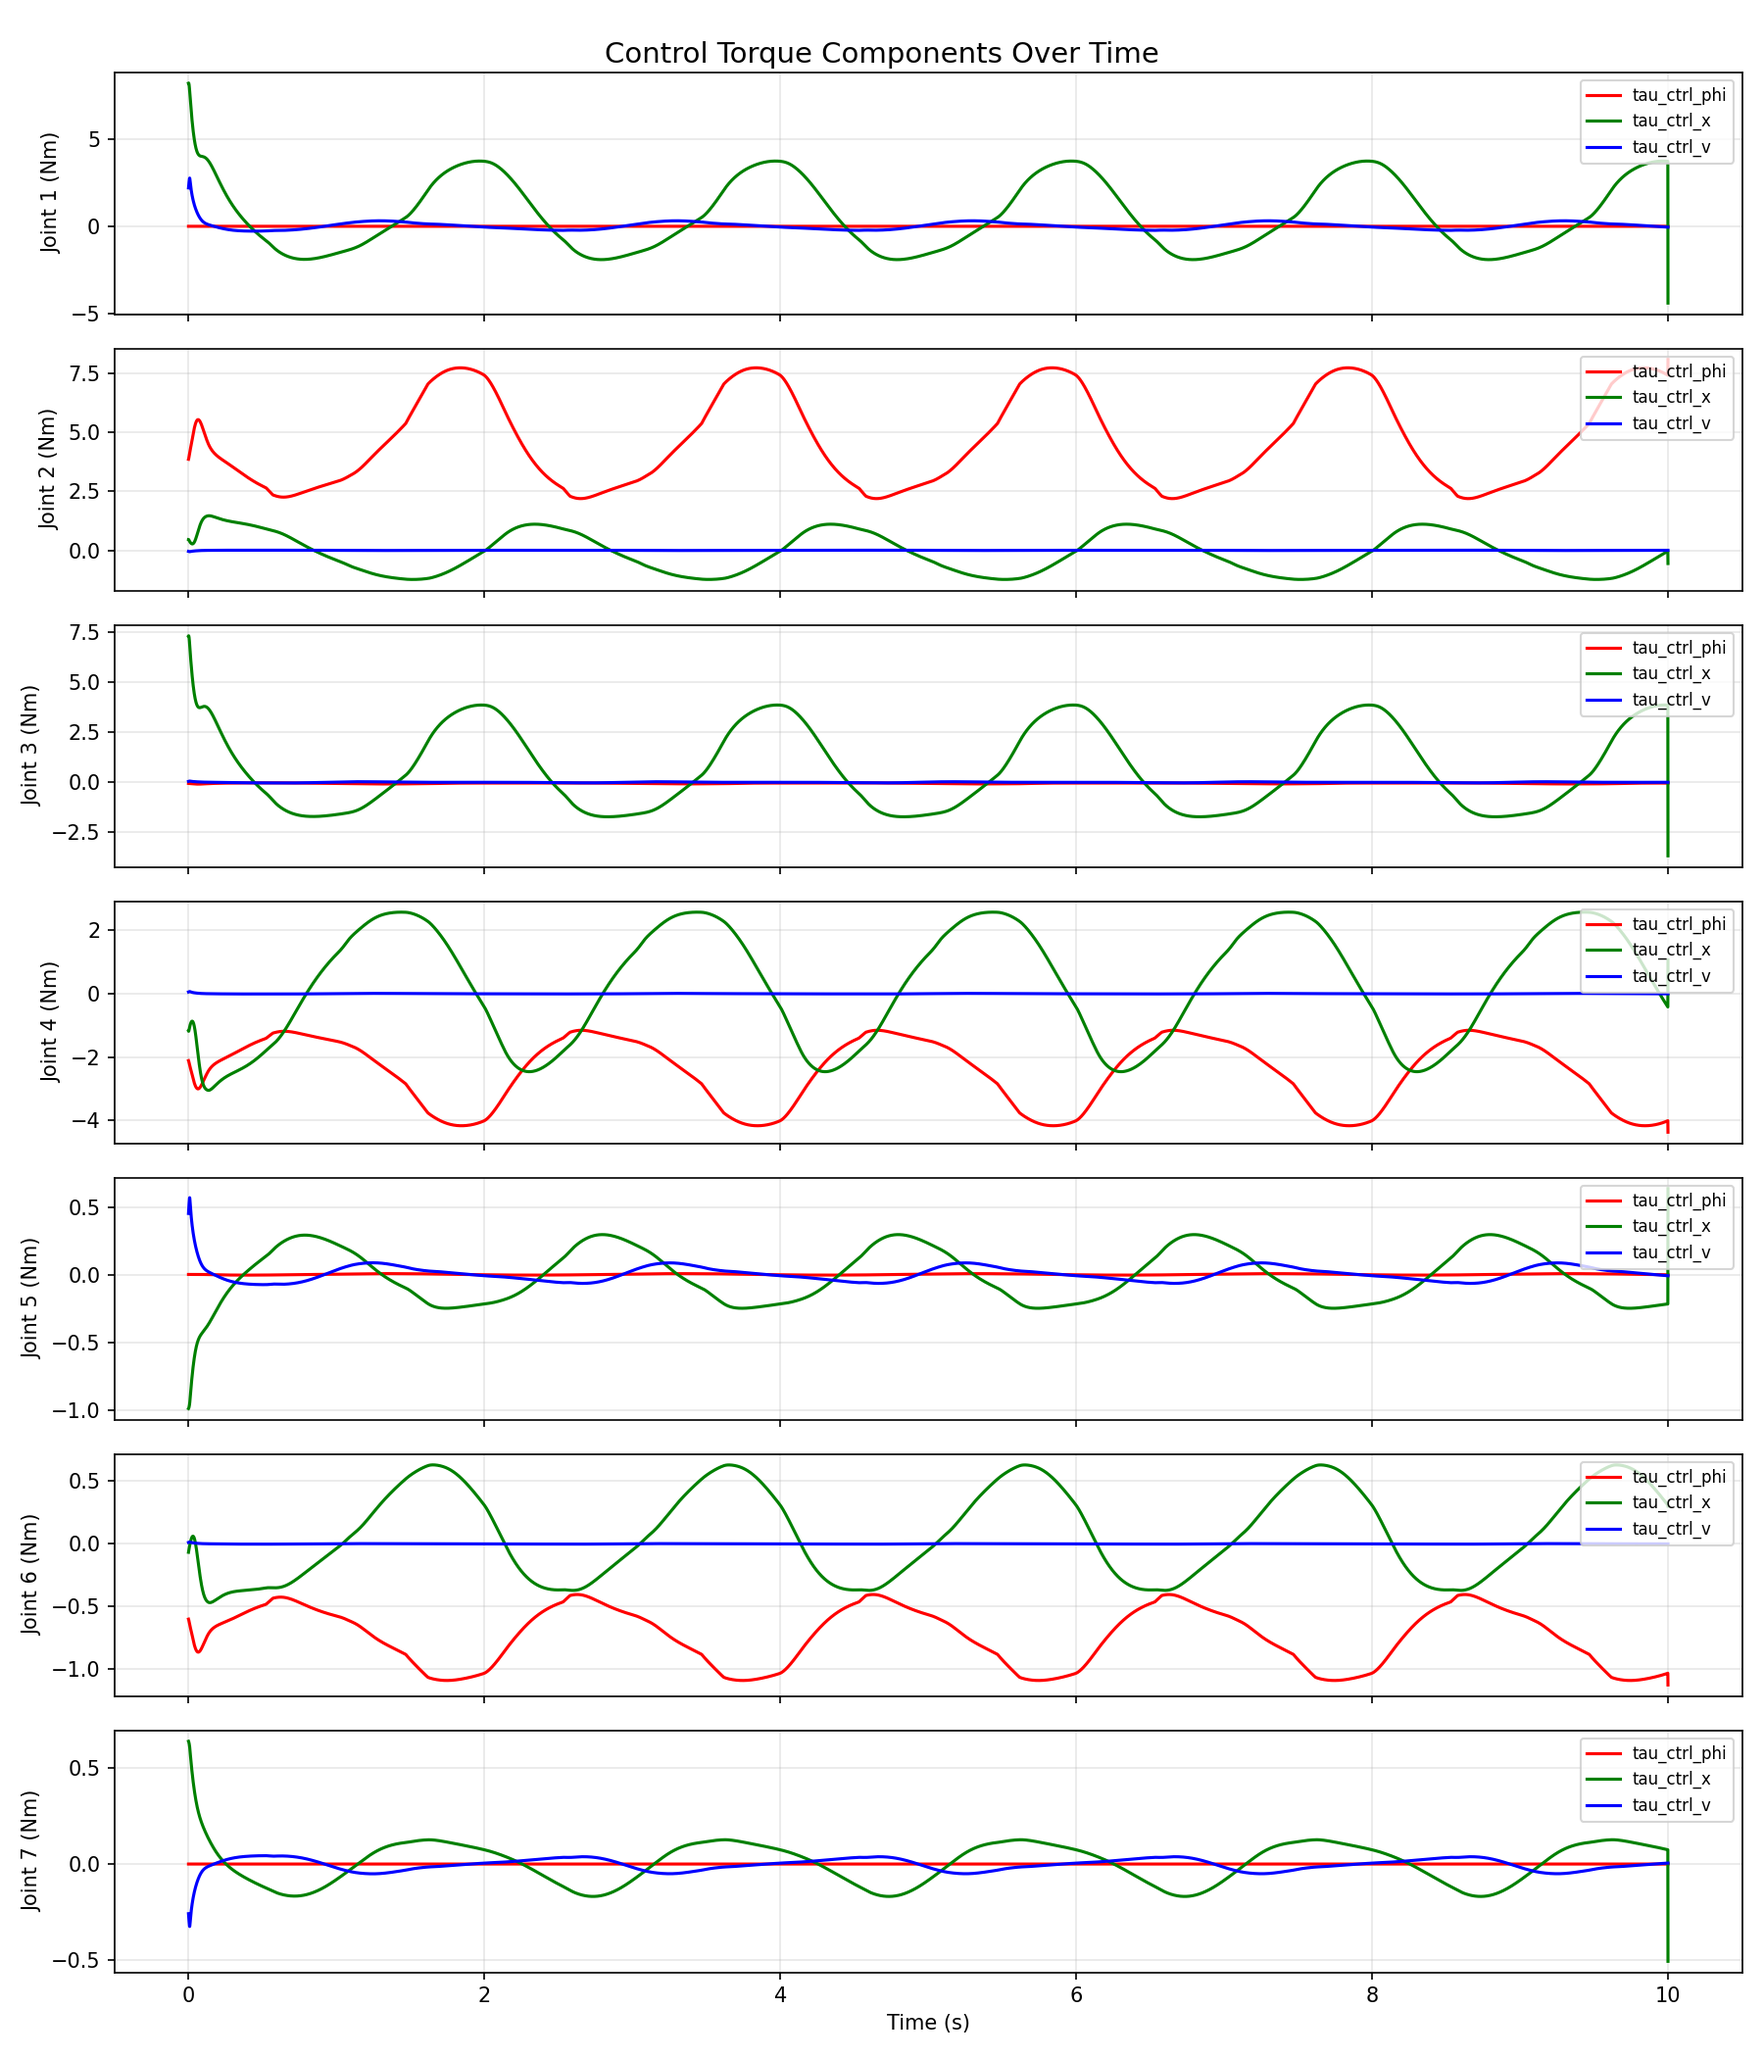
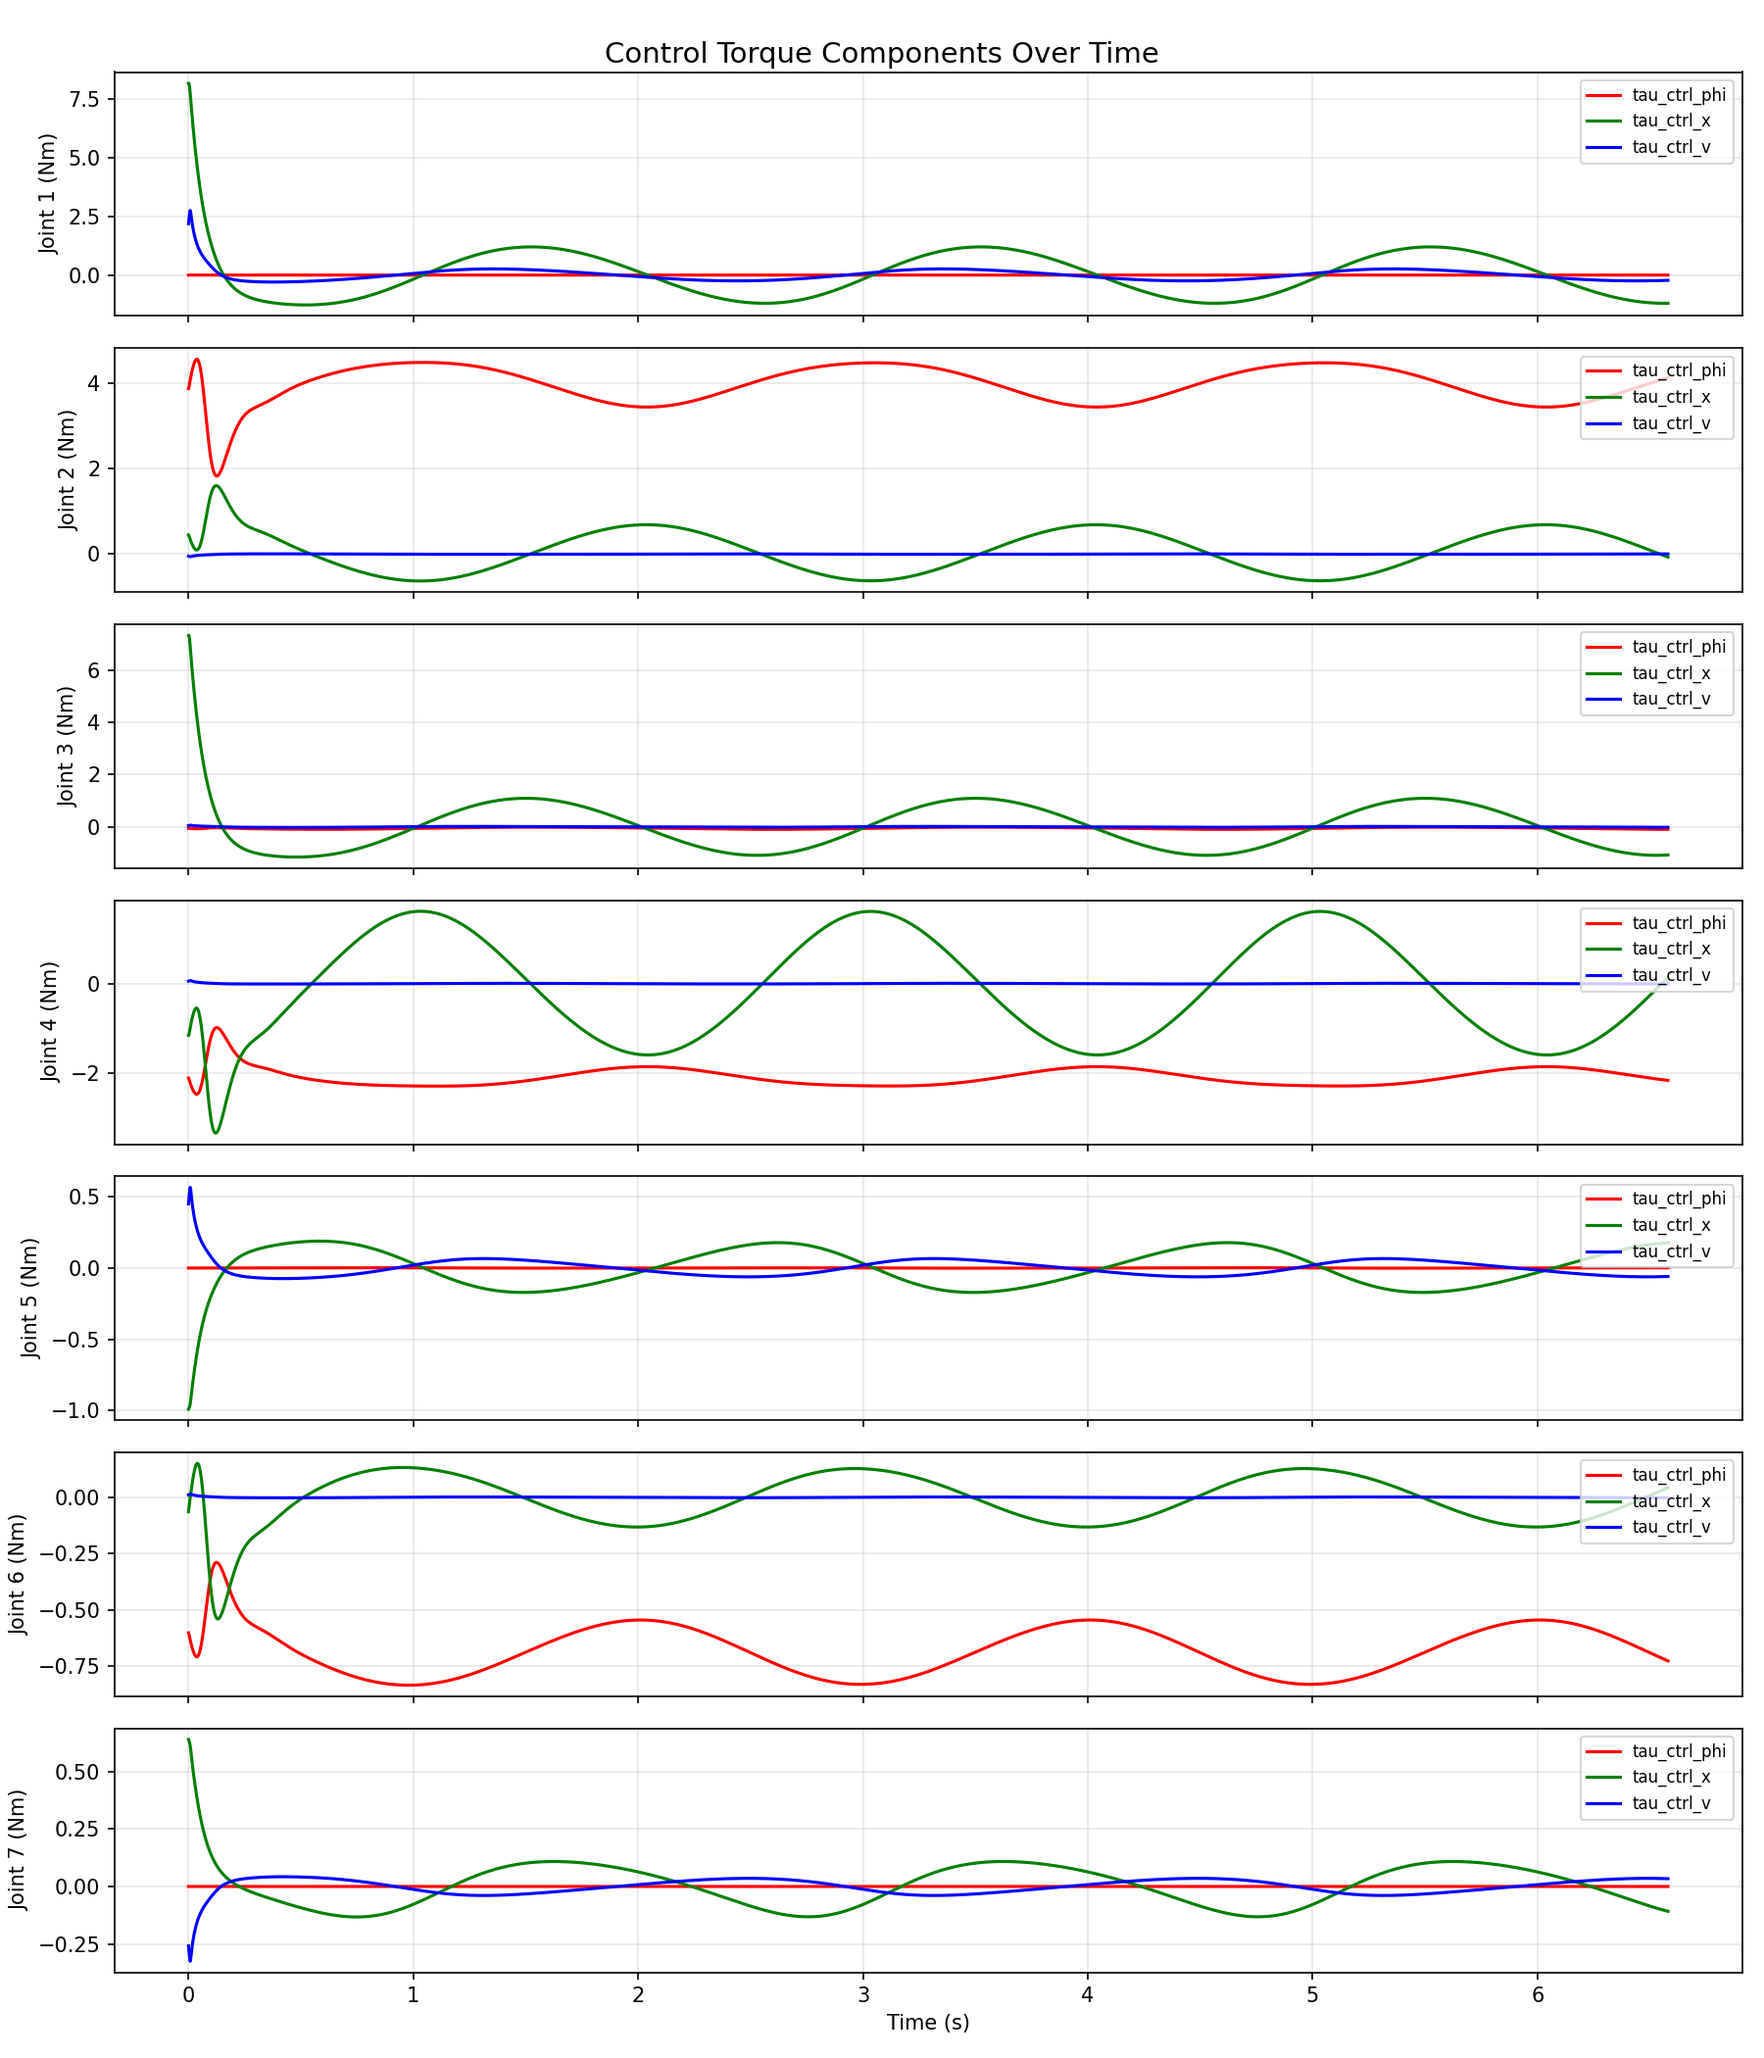
correct force_local

diff --git a/mujoco_robot_interface.py b/mujoco_robot_interface.py
@@ -151,22 +151,22 @@ class MujocoRobotInterface:
             # Contact frame x-axis (normal) points FROM geom2 To geom1
             # from slope to ee
             contact_rot = contact.frame.reshape(3, 3).T # from local to world
-            contact_rot_local = np.array([[0.0, 1.0, 0.0], [0.0, 0.0, 1.0], [1.0, 0.0, 0.0]]) # move normal force from x to z
-            contact_pos = contact.pos.copy()
-            force_local = contact_force_local[:3]
-            moment_local = contact_force_local[3:]
-            force_world = contact_rot @ force_local
+            # contact_rot_local = np.array([[0.0, 1.0, 0.0], [0.0, 0.0, 1.0], [1.0, 0.0, 0.0]]) # move normal force from x to z
+            # contact_pos = contact.pos.copy()
+            # force_local = contact_force_local[:3]
+            # moment_local = contact_force_local[3:]
+            # force_world = contact_rot @ force_local
             # answer: moment_world = R @ moment_local + p × force_world
-            moment_rotated = contact_rot @ moment_local
-            position_cross_force = np.cross(contact_pos, force_world)
-            moment_world = moment_rotated + position_cross_force
-            current_force_world[:3] = force_world
-            current_force_world[3:] = moment_world
+            # moment_rotated = contact_rot @ moment_local
+            # position_cross_force = np.cross(contact_pos, force_world)
+            # moment_world = moment_rotated + position_cross_force
+            # current_force_world[:3] = force_world
+            # current_force_world[3:] = moment_world
             # local force
-            current_force_local[:3] = contact_rot_local @ force_local
+            current_force_local[:3] = contact_rot @ contact_force_local[:3]
             current_force_local[3:] = contact_force_local[3:]
         # return current_force_world, current_force_local, contact_pos
-        return - current_force_local
+        return current_force_local
 
     def writeOnce(self, t: Torques) -> None:
         """

diff --git a/src/robot_configs.py b/src/robot_configs.py
@@ -23,7 +23,7 @@ class RobotConfig:
 # FR3 Robot Configuration
 FR3_CONFIG = RobotConfig(
     name="fr3",
-    pinocchio_xml_path="franka_fr3/fr3_no_joint_friction.xml",
+    pinocchio_xml_path="franka_fr3/fr3_no_jointf_no_surff.xml",
     mujoco_scene_xml_path="franka_fr3/scene.xml",
     joint_names=[
         'fr3_joint1', 'fr3_joint2', 'fr3_joint3', 'fr3_joint4', 
